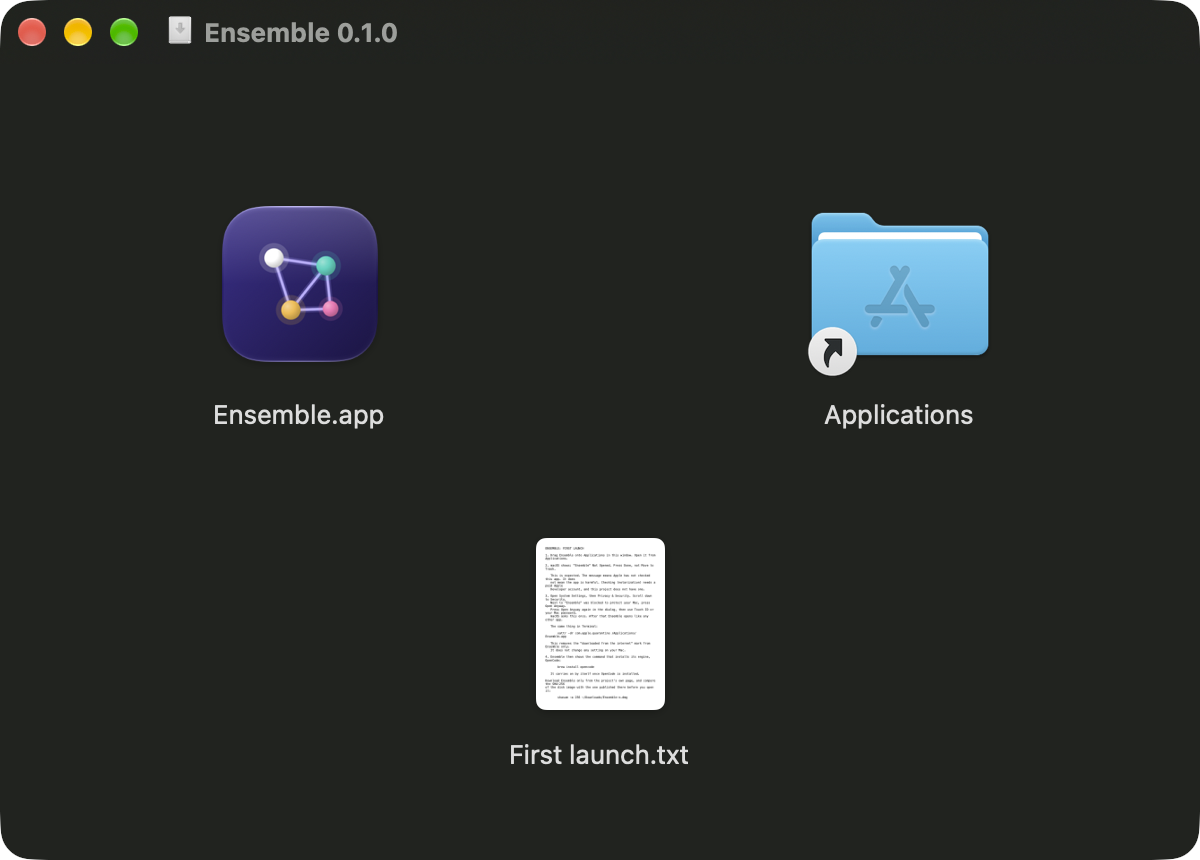
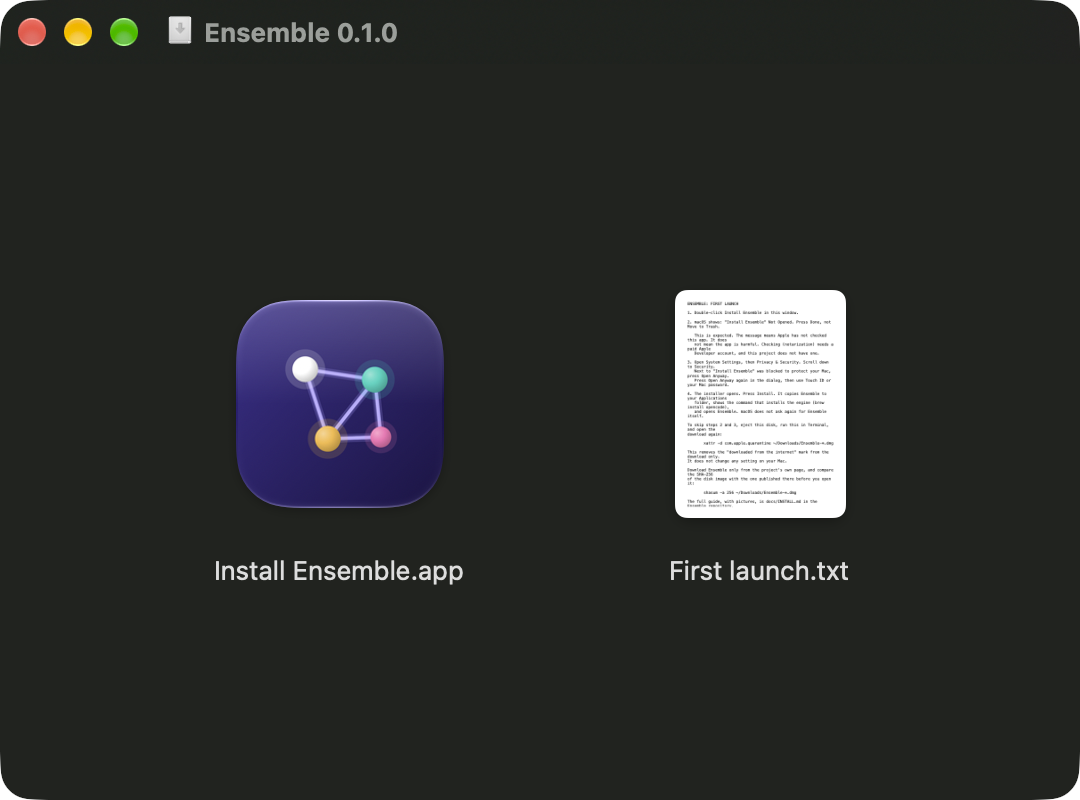
Install guide and README for the Install Ensemble app, with new captures

diff --git a/docs/INSTALL.md b/docs/INSTALL.md
@@ -4,16 +4,16 @@ This guide takes you from the download to a working app. It takes about ten minu
 
 Short version:
 
-1. Download `Ensemble-<version>.dmg`, open it, drag Ensemble onto Applications.
-2. Open Ensemble. macOS blocks it the first time. Go to System Settings, Privacy & Security, and press **Open Anyway**. [Why, and the exact steps](#first-launch-the-macos-warning).
-3. Run `brew install opencode` in Terminal. Ensemble shows this command and carries on by itself.
+1. Download `Ensemble-<version>.dmg`, open it, and double-click **Install Ensemble**.
+2. macOS blocks the installer the first time. Go to System Settings, Privacy & Security, and press **Open Anyway**. [Why, and the exact steps](#first-launch-the-macos-warning).
+3. In the installer, press **Install**. It copies Ensemble to Applications, shows the command for the engine (`brew install opencode`), and opens Ensemble.
 4. In Ensemble, open Settings, Accounts, and sign in or add an API key.
 
 ## What you need
 
 - A Mac with Apple silicon (M1 or newer). There is no Intel build.
 - macOS 26 or later.
-- [Homebrew](https://brew.sh), to install the engine. If you do not have it, Ensemble shows you the command.
+- [Homebrew](https://brew.sh), to install the engine. If you do not have it, the installer shows you the command.
 - An account or API key for at least one model provider.
 
 ## 1. Download and check
@@ -30,19 +30,19 @@ cd ~/Downloads && shasum -a 256 -c SHA256SUMS
 
 It must print `Ensemble-<version>.dmg: OK`. If it prints `FAILED`, delete the download and do not open it.
 
-## 2. Install
+## 2. Open the installer
 
-Open the `.dmg` file. A window opens. Drag **Ensemble** onto **Applications**.
+Open the `.dmg` file. A window opens with **Install Ensemble** in it. Double-click it.
 
-![The disk image window: the Ensemble icon on the left, the Applications folder on the right, and a text file named First launch below](install/01-disk-image.png)
+![The disk image window: the Install Ensemble icon and a text file named First launch](install/01-disk-image.png)
 
-Then eject the disk image (drag it to the Trash, or press the eject button next to "Ensemble" in the Finder sidebar). `First launch.txt` holds a short copy of the next section, in case you are offline.
+`First launch.txt` holds a short copy of the next section, in case you are offline.
 
 ## First launch: the macOS warning
 
-Open Ensemble from your Applications folder. The first time, macOS stops it:
+The first time, macOS stops the installer:
 
-![A macOS dialog titled "Ensemble.app" Not Opened. It says Apple could not verify "Ensemble.app" is free of malware that may harm your Mac or compromise your privacy. Two buttons: Move to Trash and Done](install/02-not-opened.png)
+![A macOS dialog titled "Install Ensemble.app" Not Opened. It says Apple could not verify "Install Ensemble.app" is free of malware that may harm your Mac or compromise your privacy. Two buttons: Move to Trash and Done](install/02-not-opened.png)
 
 This is expected, and every copy of Ensemble does it. **Press Done.** Do not press Move to Trash, which is the highlighted button.
 
@@ -50,7 +50,7 @@ This is expected, and every copy of Ensemble does it. **Press Done.** Do not pre
 
 macOS has a guard called Gatekeeper. It checks every app that was downloaded from the internet before it runs for the first time. It looks for two things: a signature from a developer registered with Apple (a "Developer ID"), and proof that Apple scanned that exact copy for known malware (called "notarization").
 
-Ensemble has neither. Both need a membership in the Apple Developer Program, which costs 99 US dollars a year. Ensemble is a free, open-source project and does not have one.
+Ensemble and its installer have neither. Both need a membership in the Apple Developer Program, which costs 99 US dollars a year. Ensemble is a free, open-source project and does not have one.
 
 So the warning means **"Apple has not checked this app"**. It does not mean "Apple checked this app and found something". macOS shows the same message for every app that is not notarized.
 
@@ -61,44 +61,54 @@ That also means Apple's warning is doing its job: nobody has vouched for this fi
 
 If you would rather not trust a download at all, you can read the source and [build it yourself](../README.md#build). A copy you build on your own Mac has no warning.
 
-This project cannot remove the warning without the paid membership. Nothing in this guide turns Gatekeeper off, and you should not turn it off for an app. The steps below make one exception, for Ensemble only.
+This project cannot remove the warning without the paid membership. Nothing in this guide turns Gatekeeper off, and you should not turn it off for an app. The steps below make one exception, for this installer only.
 
 ### Open it anyway
 
 These steps were checked on macOS 27.2. macOS 26 uses the same steps. Small differences in wording are possible. They are also in Apple's own guide: [Open a Mac app from an unknown developer](https://support.apple.com/guide/mac-help/open-a-mac-app-from-an-unknown-developer-mh40616/mac).
 
-1. Try to open Ensemble once and press **Done** on the warning. (You have just done this. macOS only offers the next step after a blocked attempt.)
+1. Open Install Ensemble once and press **Done** on the warning. (You have just done this. macOS only offers the next step after a blocked attempt.)
 2. Open **System Settings** and choose **Privacy & Security** in the sidebar.
-3. Scroll down to **Security**. You see a line saying Ensemble was blocked. Press **Open Anyway**.
+3. Scroll down to **Security**. You see a line saying Install Ensemble was blocked. Press **Open Anyway**.
 
-   ![The Security section of Privacy & Security settings. Below "Allow applications from" is the line "Ensemble.app" was blocked to protect your Mac, with an Open Anyway button](install/03-open-anyway.png)
+   ![The Security section of Privacy & Security settings. Below "Allow applications from" is the line "Install Ensemble.app" was blocked to protect your Mac, with an Open Anyway button](install/03-open-anyway.png)
 
-   The button stays for about an hour after the blocked attempt. If it is not there, open Ensemble again, press Done, and come back.
+   The button stays for about an hour after the blocked attempt. If it is not there, open Install Ensemble again, press Done, and come back.
 4. macOS asks once more. Press **Open Anyway**.
 
-   ![A drawing of the macOS dialog titled Open "Ensemble.app"? with the buttons Open Anyway, Move to Trash and Done. Open Anyway is outlined](install/04-confirm.svg)
+   ![A drawing of the macOS dialog titled Open "Install Ensemble.app"? with the buttons Open Anyway, Move to Trash and Done. Open Anyway is outlined](install/04-confirm.svg)
 
 5. Confirm with Touch ID or your Mac password.
 
-Ensemble opens. macOS remembers the exception, so from now on it opens like any other app.
+The installer opens.
 
-(On your Mac the dialogs may say "Ensemble" instead of "Ensemble.app". That depends on a Finder setting.)
+(On your Mac the dialogs may say "Install Ensemble" without ".app". That depends on a Finder setting.)
 
 ### The same thing in Terminal
 
-If you prefer one command to the five steps above:
+If you prefer one command to the five steps above, eject the Ensemble disk if it is open, then run this before you open the download:
 
 ```bash
-xattr -dr com.apple.quarantine /Applications/Ensemble.app
+xattr -d com.apple.quarantine ~/Downloads/Ensemble-*.dmg
 ```
 
-When a browser downloads a file, macOS attaches a mark to it called `com.apple.quarantine`. That mark is what makes Gatekeeper check the app. This command removes the mark from Ensemble and from nothing else. It changes no setting on your Mac. Then open Ensemble as usual.
+When a browser downloads a file, macOS attaches a mark to it called `com.apple.quarantine`. That mark is what makes Gatekeeper check what is inside. This command removes the mark from the Ensemble download and from nothing else. It changes no setting on your Mac. Then open the download and double-click Install Ensemble.
 
-## 3. Set up the engine
+## 3. Install
 
-Ensemble is the window. The agents are run by [OpenCode](https://opencode.ai), a free, open-source program that Ensemble starts and talks to in the background. OpenCode is not inside the download, so a new Mac shows this:
+![The installer window. On the left: the Ensemble icon, version, and three steps: Install the app, Set up the engine, Open Ensemble. On the right: Install Ensemble, what it installs and where, and an Install button](install/05-installer-welcome.png)
 
-![The Ensemble window on first launch. Title: Install the engine. Step 1, Install Homebrew, and step 2, Install OpenCode, each show a command with a Copy button. Below are the buttons Open Terminal and Check again](install/05-install-the-engine.png)
+Press **Install**. The installer:
+
+1. Copies Ensemble into your Applications folder. If you may not change that folder, it uses the Applications folder in your home folder instead. An older Ensemble is replaced, and quit first if it is open.
+2. Checks the copy's signature. If the check fails, nothing is installed.
+3. Takes the "downloaded from the internet" mark off the copy it installed. That is why macOS does not ask a second time when Ensemble opens: you approved the installer, and it applies that to the one app it carries. It touches nothing else and changes no setting.
+
+### The engine
+
+Ensemble is the window. The agents are run by [OpenCode](https://opencode.ai), a free, open-source program that Ensemble starts and talks to in the background. OpenCode is not inside the download. If it is not on your Mac, the installer shows this next:
+
+![The installer on its second step, Set up the engine. Step 1, Install Homebrew, and step 2, Install OpenCode, each show a command with a Copy button. Below are the buttons Open Terminal, Set up later and Check again](install/06-installer-engine.png)
 
 1. Press **Open Terminal**.
 2. If the window lists **Install Homebrew**, press **Copy** next to it, paste the command into Terminal and press Return. It asks for your Mac password and takes a few minutes. If you already have Homebrew, this step is not shown.
@@ -108,11 +118,17 @@ Ensemble is the window. The agents are run by [OpenCode](https://opencode.ai), a
    brew install opencode
    ```
 
-Ensemble looks for OpenCode every few seconds and continues by itself when the install finishes. **Check again** looks at once.
+The installer looks for OpenCode every few seconds and moves on by itself when the install finishes. **Check again** looks at once. **Set up later** skips this: Ensemble shows the same commands when you open it.
 
-Ensemble never downloads or runs an installer on its own. You run both commands yourself.
+The installer never downloads or runs anything on its own. You run both commands yourself.
 
 Ensemble needs OpenCode 2.3.0 or newer. If yours is older, Ensemble says so and shows `brew upgrade opencode`.
+
+### Done
+
+![The installer on its last step: a green tick, Ensemble is installed, and the buttons Show in Finder and Open Ensemble](install/07-installer-done.png)
+
+Press **Open Ensemble**. You can now eject the Ensemble disk and delete the download.
 
 ## 4. Sign in to your models
 
@@ -126,7 +142,7 @@ Open **Settings** (bottom of the sidebar, or Command-comma) and choose **Account
 
 You need one of these to start. Then press **New session**, pick a folder and a model, and send a message.
 
-![The Ensemble main window with sample data: sessions in the sidebar, a chat in the middle, and the context panel on the right](install/06-ensemble.png)
+![The Ensemble main window with sample data: sessions in the sidebar, a chat in the middle, and the context panel on the right](install/08-ensemble.png)
 
 macOS may ask for a few permissions as you use the app: notifications (when an agent needs you), the microphone (only if you dictate a message), and your keychain (only if you pair an iPhone).
 
@@ -134,9 +150,9 @@ macOS may ask for a few permissions as you use the app: notifications (when an a
 
 There is no automatic update. To update:
 
-1. Quit Ensemble.
-2. Download the new `.dmg`, check it against its `SHA256SUMS`, and drag Ensemble onto Applications. Choose **Replace**.
-3. Open it. macOS shows the warning again for every new download, so repeat [Open it anyway](#open-it-anyway).
+1. Download the new `.dmg` and check it against its `SHA256SUMS`.
+2. Open it and run **Install Ensemble**. macOS shows the warning again for every new download, so repeat [Open it anyway](#open-it-anyway).
+3. Press **Install and replace**. If Ensemble is open, the installer quits it first.
 
 Your sessions, settings and sign-ins stay. If you paired an iPhone, macOS asks for your password again before the new copy can read the pairing code from your keychain. That is because each build has a different signature.
 
@@ -166,7 +182,12 @@ The iPhone app is not part of this download. Without a paid Apple Developer acco
 
 ## Problems
 
-- **No Open Anyway button.** It appears only after a blocked attempt and stays for about an hour. Open Ensemble again, press Done, then look again.
-- **"Ensemble is damaged and can't be opened."** The download is incomplete or was changed. Delete it, download again, and run the SHA-256 check.
-- **The window stays on "Install the engine".** In Terminal, run `which opencode`. If it prints nothing, the install did not finish: run `brew install opencode` again and read its output.
+- **No Open Anyway button.** It appears only after a blocked attempt and stays for about an hour. Open Install Ensemble again, press Done, then look again.
+- **"Install Ensemble is damaged and can't be opened."** The download is incomplete or was changed. Delete it, download again, and run the SHA-256 check.
+- **"The copy did not pass its check."** The installer found that its copy of Ensemble was changed or cut short, and installed nothing. Download it again.
+- **"You do not have permission to change that folder."** Ask someone with an administrator account on this Mac to run the installer.
+- **Ensemble shows "Install the engine".** OpenCode is not installed yet. The screen has the same commands as the installer and carries on by itself:
+
+  ![The Ensemble window on first launch without the engine. Title: Install the engine, with the install commands, Open Terminal and Check again](install/09-engine-in-app.png)
+
 - **"The engine did not start."** Run `opencode service status` in Terminal and read what it says, then press Try again in Ensemble.

diff --git a/docs/PROGRESS.md b/docs/PROGRESS.md
@@ -98,3 +98,11 @@ Newest first. One line per finished piece; details in commits.
 - `docs/INSTALL.md` (linked from the README): download and SHA-256 check, install, the Gatekeeper warning explained, Open Anyway step by step, the `xattr` alternative, engine setup, sign-in, updating, uninstalling. Wording and steps checked on macOS 27.2 against the real dialogs, macOS's own text tables and Apple's guide. Pictures in `docs/install/`: five real captures, and one labelled drawing for the dialog that only appears after pressing Open Anyway.
 - Verification: 1,310/1,310 `EnsembleKit` tests in 161 suites. The app copied out of the disk image starts and shows the setup screen with OpenCode hidden (one step with Homebrew, two without), moves on by itself when an `opencode` appears, and opens the main window with sample data. A copy marked as downloaded is blocked by Gatekeeper as described in the guide.
 - Published: `v0.1.0` is a pre-release on GitHub with `Ensemble-0.1.0.dmg` and `SHA256SUMS` (tag on `968e09f`, the commit the image was built from). The files downloaded back from the release match the checksum. The README has a Download section that links to the Releases page.
+
+## 2026-11-20 (graphical installer, Luke's request)
+
+- Luke: a disk image with a drag-to-Applications window is not an installer. The disk image now holds one app, **Install Ensemble** (`Apps/Installer`, target `EnsembleInstaller`), with `Ensemble.app` inside its Resources. Its window has three steps (Install the app, Set up the engine, Open Ensemble): it copies Ensemble to Applications (or the home folder's Applications when that is not allowed), quits and replaces an older copy, checks the copy's signature before swapping it in, shows the engine commands with Copy and Open Terminal and moves on by itself, then opens Ensemble.
+- The installer takes `com.apple.quarantine` off the copy it installs, so macOS asks once, for the installer, and not again for Ensemble. The guide says so plainly. Nothing else on the Mac is touched.
+- Logic in `EnsembleKit/Install/AppInstaller.swift` (8 tests). The installer target compiles that file and `Engine/EngineSetup.swift` directly and links nothing else, so it stays small. `--destination`, `--payload`, `--render` and `--unattended` are for tests and pictures.
+- `scripts/make-installer.sh` builds both targets, finishes the app, puts it inside the installer, signs the installer after it, and checks both on the mounted image.
+- Found on the way: the system's app icon image carries a wide colour range, and drawing it made `ImageRenderer` tone down the whole picture. The installer flattens the icon to an sRGB bitmap first.

diff --git a/README.md b/README.md
@@ -11,10 +11,10 @@ Ensemble is a native Mac app, with an iPhone remote, for coding with Claude, GPT
 **[Download Ensemble for Mac](https://github.com/coquetteluke/ensemble/releases)** (Apple silicon, macOS 26 or later). No Xcode needed.
 
 1. On the Releases page, download `Ensemble-<version>.dmg` and `SHA256SUMS`.
-2. Open the disk image and drag Ensemble onto Applications.
-3. Follow the [install guide](docs/INSTALL.md) for the first launch and the engine.
+2. Open the disk image and double-click **Install Ensemble**. The installer copies Ensemble to Applications, helps you set up the engine, and opens the app.
+3. The [install guide](docs/INSTALL.md) has every step with pictures.
 
-macOS warns the first time you open Ensemble, because the app is not notarized (that needs a paid Apple Developer account). The warning means Apple has not checked the app, not that it is harmful. The guide [explains it and shows how to open the app](docs/INSTALL.md#first-launch-the-macos-warning).
+macOS warns the first time you open the installer, because it is not notarized (that needs a paid Apple Developer account). The warning means Apple has not checked it, not that it is harmful. The guide [explains it and shows how to open the installer](docs/INSTALL.md#first-launch-the-macos-warning).
 
 ## What it does
 
@@ -59,7 +59,7 @@ xcodegen
 open Ensemble.xcodeproj
 ```
 
-To make the installer (`dist/Ensemble-<version>.dmg` and `dist/SHA256SUMS`) from the last commit:
+To make the installer (`dist/Ensemble-<version>.dmg`, which holds the Install Ensemble app, and `dist/SHA256SUMS`) from the last commit:
 
 ```bash
 scripts/make-installer.sh
